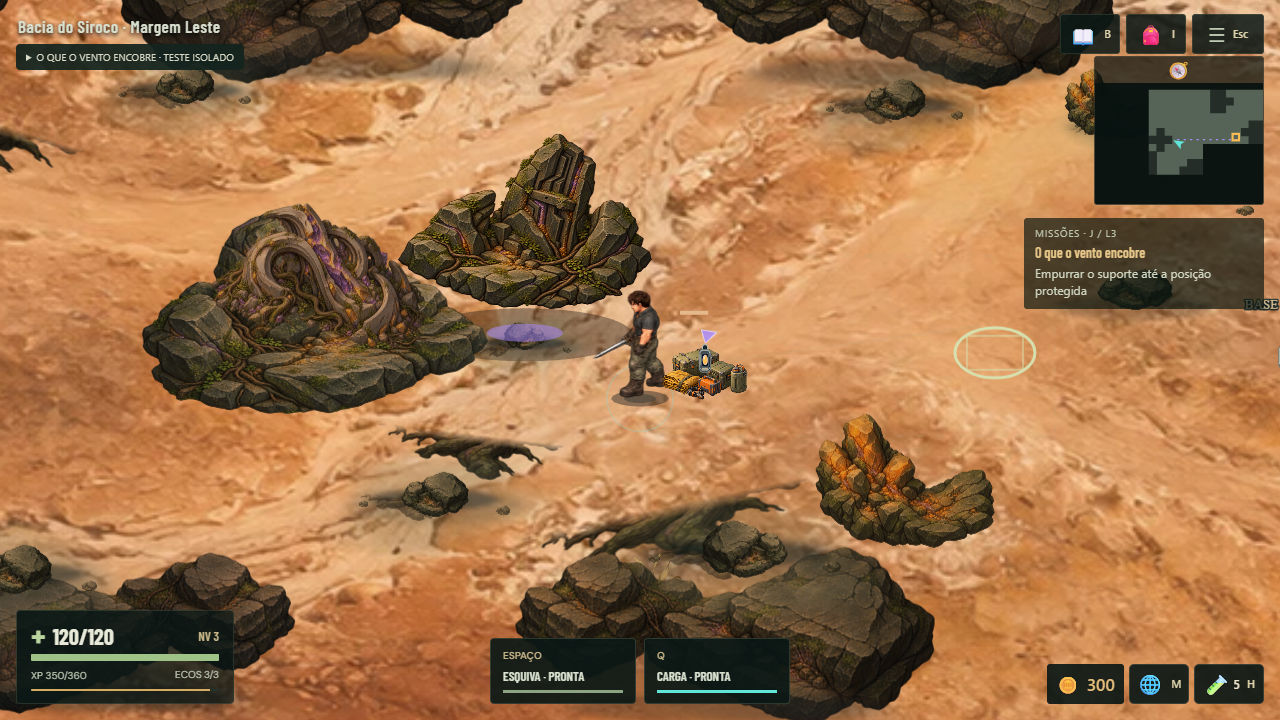
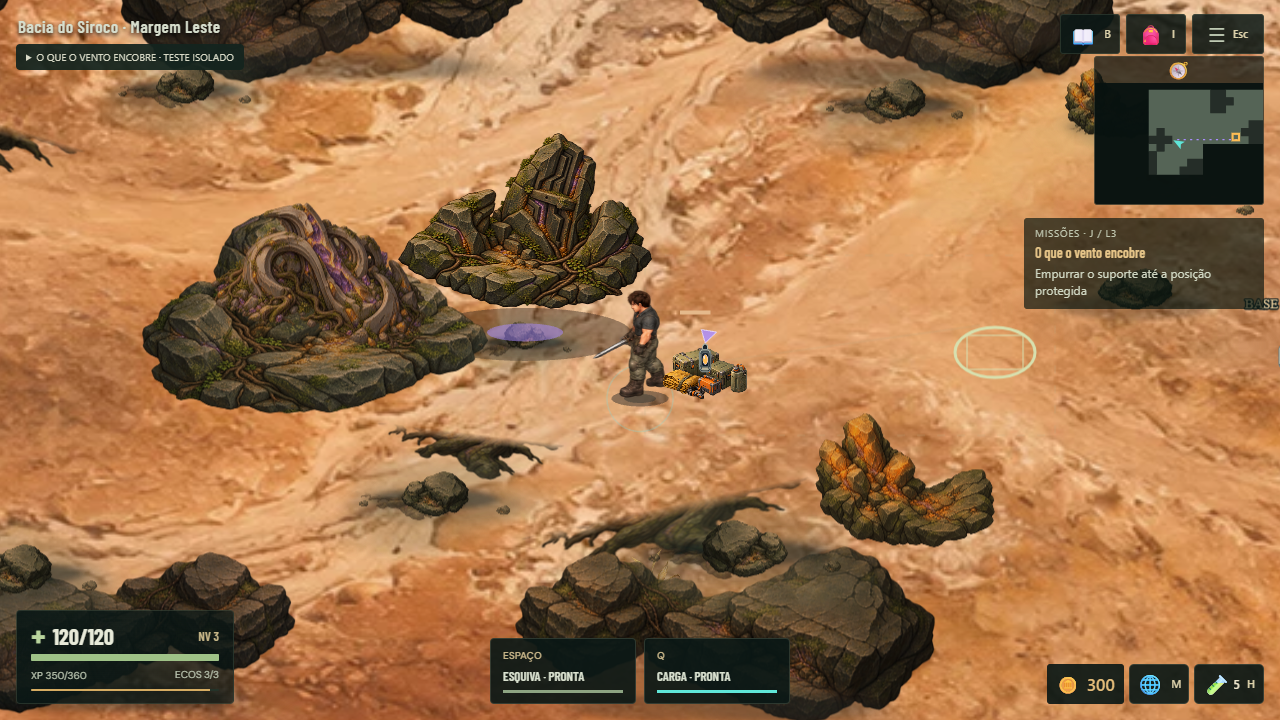
test: confirm public wind survey and record relay deployment gate

diff --git a/docs/wind-survey/README.md b/docs/wind-survey/README.md
@@ -32,7 +32,10 @@ Protocolo 16 preservado, catálogo com seis novas evidências e capacidade `wind
 - [x] Typecheck/build de 262 módulos, com aviso preexistente de chunks maiores que 500 kB. [Plataforma compilada](qa/compiled/report.json), sem globais DEV: fixture explícita do serializer antigo prepara capítulos anteriores, relé/kit/montagem e derrotas já existentes do Siroco, sem XP/drop. Caminhada desde checkpoint original, empurrão horizontal, volta ao redor do corpo, correção diagonal e reload gravam somente o encaixe. Leitura/arquivo/recompensa/bosses posteriores ficam pendentes; sentinelas reais preservadas. O teste lê o marcador normal do minimapa para corrigir os pulsos de teclado; não move personagem/plataforma por API.
 - [x] [Capítulos compilados](qa/compiled-chapters/public.json): pesquisa nova, Primeiro Eco e posto aceitos por diálogo/recarregados, preservando personagens/configurações reais.
 - [x] [Dupla compilada local](qa/compiled-coop/report.json), preview 5197: dois Chrome sem globais DEV, convite/preparo explícito da equipe pelo fluxo normal, aceite com Lia e coleta do kit por caminhada/E do convidado. Reload/reentrada preservam objetivos, saldo, recibos e bosses posteriores; sentinelas reais intactas. É uma amostra do início; percurso e entrega completos cobertos na dupla DEV acima.
-- [ ] Publicação/hashes/capacidade real, commit/push sincronizado.
+- [x] [Regressão compilada do circuito anterior](qa/echo-regression/report.json): caminhada comum, rota rompida recusada, giros/emissão/chegada real e reload parcial passaram na build 0.1.171 após o limite de velocidade de contato. Fixture antiga e cópia/origem explícitas; sem globais DEV ou novas derrotas.
+- [x] [Aceite/reload públicos](qa/public-chapters/public.json) da pesquisa/Primeiro Eco/posto e [plataforma pública](qa/public-platform/report.json), sem globais DEV: a mesma fixture explícita de pré-requisitos/montagem, caminhada pelo minimapa normal, empurrão horizontal, contorno/correção diagonal e encaixe real/reload passaram. A tolerância dos waypoints é 5,5 px para acomodar o passo por frame do teclado; o encaixe ainda exige a evidência física real. Leitura/arquivo/160 créditos não são antecipados; sentinelas reais preservadas. Capturas públicas inspecionadas pelo agente.
+- [x] Aplicação `991147641e2aee1fa69eddb90fe6b6ed5a1b7368` enviada a `origin/main` com sincronização conferida. [Vercel success](https://vercel.com/brunomafra-devs-projects/echosofdante/53B5torXkdH4475YtAR4coErWFDg), biblioteca registrada e [62 hashes iguais à build](../outpost/qa/publication/0.1.171/hashes.json). Auditoria posterior altera somente documentação/QA.
+- [ ] Coop público: Render ainda `ffe844b`, protocolo 16 com catálogos anteriores, sem `wind:1` (saúde real conferida em 30/10). Deploy latest commit solicitado ao usuário depois do push. Dupla local completa/compilada passou; **não declarar a dupla pública deste capítulo aprovada antes do deploy e teste real**. Solo publicado e capítulos anteriores permanecem disponíveis; laboratório/save novo recusa relay incompatível preservando objetivos.
 - [ ] Playtest humano antes de outro sprint.
 
 Fixtures, limites e evidências serão registrados separadamente da aprovação humana. Automação não mede diversão/duração nem substitui celular físico ou equipe humana de quatro.

diff --git a/docs/RPG_FOUNDATION_ROADMAP.md b/docs/RPG_FOUNDATION_ROADMAP.md
@@ -1,9 +1,10 @@
 # Echoes of Dante — Fundação do RPG e da expedição cooperativa
 
-**30/10/2026 · O que o vento encobre · 0.1.171 em desenvolvimento:** após a entrega/publicação da 0.1.170, usuário respondeu “boa vamos pro próximo passo”. Autoriza continuar com um capítulo; não é declaração de playtest completo ou duração do circuito. Lia compara vento/frequência no Siroco: relé original obrigatório, plataforma empurrada por caminhada, encaixe protegido e comparação no arquivo existente. [Escopo e QA](wind-survey/README.md). Preservar campanha, requisitos, bosses, moradores, encontros finitos e arte; aguardar validação desta entrega antes de outro sprint.
+**30/10/2026 · O que o vento encobre · 0.1.171 publicada no solo:** após a entrega/publicação da 0.1.170, usuário respondeu “boa vamos pro próximo passo”. Autoriza continuar com um capítulo; não é declaração de playtest completo ou duração do circuito. Lia compara vento/frequência no Siroco: relé original obrigatório, plataforma empurrada por caminhada, encaixe protegido e comparação no arquivo existente. [Escopo e QA](wind-survey/README.md). Preservar campanha, requisitos, bosses, moradores, encontros finitos e arte; aguardar validação desta entrega antes de outro sprint.
 
 - [x] Implementação e QA: modelo/save 0.1.166/recibo único, solo/dupla completos, relé original, empurrão físico com contato estável, colisões/navegação, morte/reload/viagem, quatro classes touch/gamepad emulados e 262 módulos. Plataforma compilada por caminhada normal e dupla compilada por aceite/coleta/reentrada passaram; capturas inspecionadas pelo agente, separadas de avaliação humana. [Evidências e limites](wind-survey/README.md).
-- [ ] Laboratório, versão/build, commit/push sincronizado e publicação conferida.
+- [x] Laboratório registrado, aplicação `9911476` em `origin/main` sincronizado, Vercel success e 62 hashes conferidos. Solo público: aceite/reload de pesquisa/Primeiro Eco/posto e empurrão/contorno/encaixe/reload reais passaram, com pré-requisitos explicitamente preparados e saves reais preservados. Capturas inspecionadas pelo agente; [evidências](wind-survey/README.md).
+- [ ] Coop público do capítulo aguarda Render: revisão real `ffe844b`, sem `wind:1`. Atualização solicitada após o push; protocolo 16 e capítulos anteriores mantidos, novo save protegido contra catálogo antigo. Dupla local completa/compilada passou; amostra pública ainda pendente.
 - [ ] Playtest humano da plataforma antes de outra etapa.
 
 **29/10/2026 · O rastro do Primeiro Eco · 0.1.170 publicada:** usuário testou a 0.1.169, respondeu “ficou excelente” e autorizou a proposta seguinte. Um capítulo: comparar o registro antigo, conduzir um pulso por dois desviadores e arquivar o percurso com Nara. Reutiliza o corredor existente antes do limiar do Warden; preserva portais, bosses, encontros finitos, arte e sistemas do assentamento. Cinco objetivos, 150 créditos únicos; sem tradução definitiva ou origem humana confirmada. [Escopo e evidências](echo-circuit/README.md). Somente este sprint; aguardar playtest humano antes de outro.

diff --git a/docs/DANTE_EXPANSION_ROADMAP.md b/docs/DANTE_EXPANSION_ROADMAP.md
@@ -2,7 +2,7 @@
 
 **30/10/2026 · Pesquisa no Siroco · 0.1.171 autorizada:** usuário respondeu “boa vamos pro próximo passo” após o fechamento público da 0.1.170. [O que o vento encobre](wind-survey/README.md): Lia relaciona o mapa de retornos à preparação de instrumentos/suprimentos além do Vale. Um capítulo com plataforma física empurrada até um ponto protegido, relé original do Siroco preservado e arquivo do posto reutilizado. Seis objetivos, 160 créditos únicos, sem quotas ou alteração de bosses. A autorização encerra a espera operacional do capítulo anterior, sem afirmar playtest completo; não inicia outro lote. Aguardar avaliação desta entrega.
 
-Implementação/QA local concluídos: solo/dupla completos, contato e direção do suporte, controle touch nas quatro classes/gamepad, morte/viagem/reload, save antigo e recompensa única. Plataforma compilada por caminhada comum e dupla compilada por aceite/coleta/reentrada passaram; capturas inspecionadas pelo agente. Publicação/capacidade externa em conferência; [evidências e fixtures](wind-survey/README.md). Sem aprovação humana ou duração medida desta entrega.
+Implementação/QA local concluídos: solo/dupla completos, contato e direção do suporte, controle touch nas quatro classes/gamepad, morte/viagem/reload, save antigo e recompensa única. Plataforma compilada por caminhada comum e dupla compilada por aceite/coleta/reentrada passaram; capturas inspecionadas pelo agente. Aplicação `9911476` na Vercel e em `origin/main`, 62 hashes conferidos; aceite/reload público de três capítulos e empurrão/contorno/encaixe/reload públicos passaram. Coop público aguarda Render: revisão real `ffe844b`, sem `wind:1`; deploy solicitado após o push, objetivos preservados contra relay antigo. [Evidências e fixtures](wind-survey/README.md). Sem aprovação humana ou duração medida desta entrega.
 
 **29/10/2026 · Rastro do Primeiro Eco autorizado · 0.1.170:** usuário aprovou expressamente a investigação 0.1.169 e pediu implementar a proposta de conduzir o pulso nas ruínas. [Escopo](echo-circuit/README.md): dois desviadores rotativos no corredor existente, pulso físico visível, leitura lateral e mapa dos retornos na base. Cinco objetivos; 150 créditos uma vez por integrante. Requisitos anteriores, Warden/portão e bosses posteriores preservados. Sem novos mapas, respawns ou sistemas de produção; somente este capítulo, com QA/publicação e espera do playtest humano.
 
